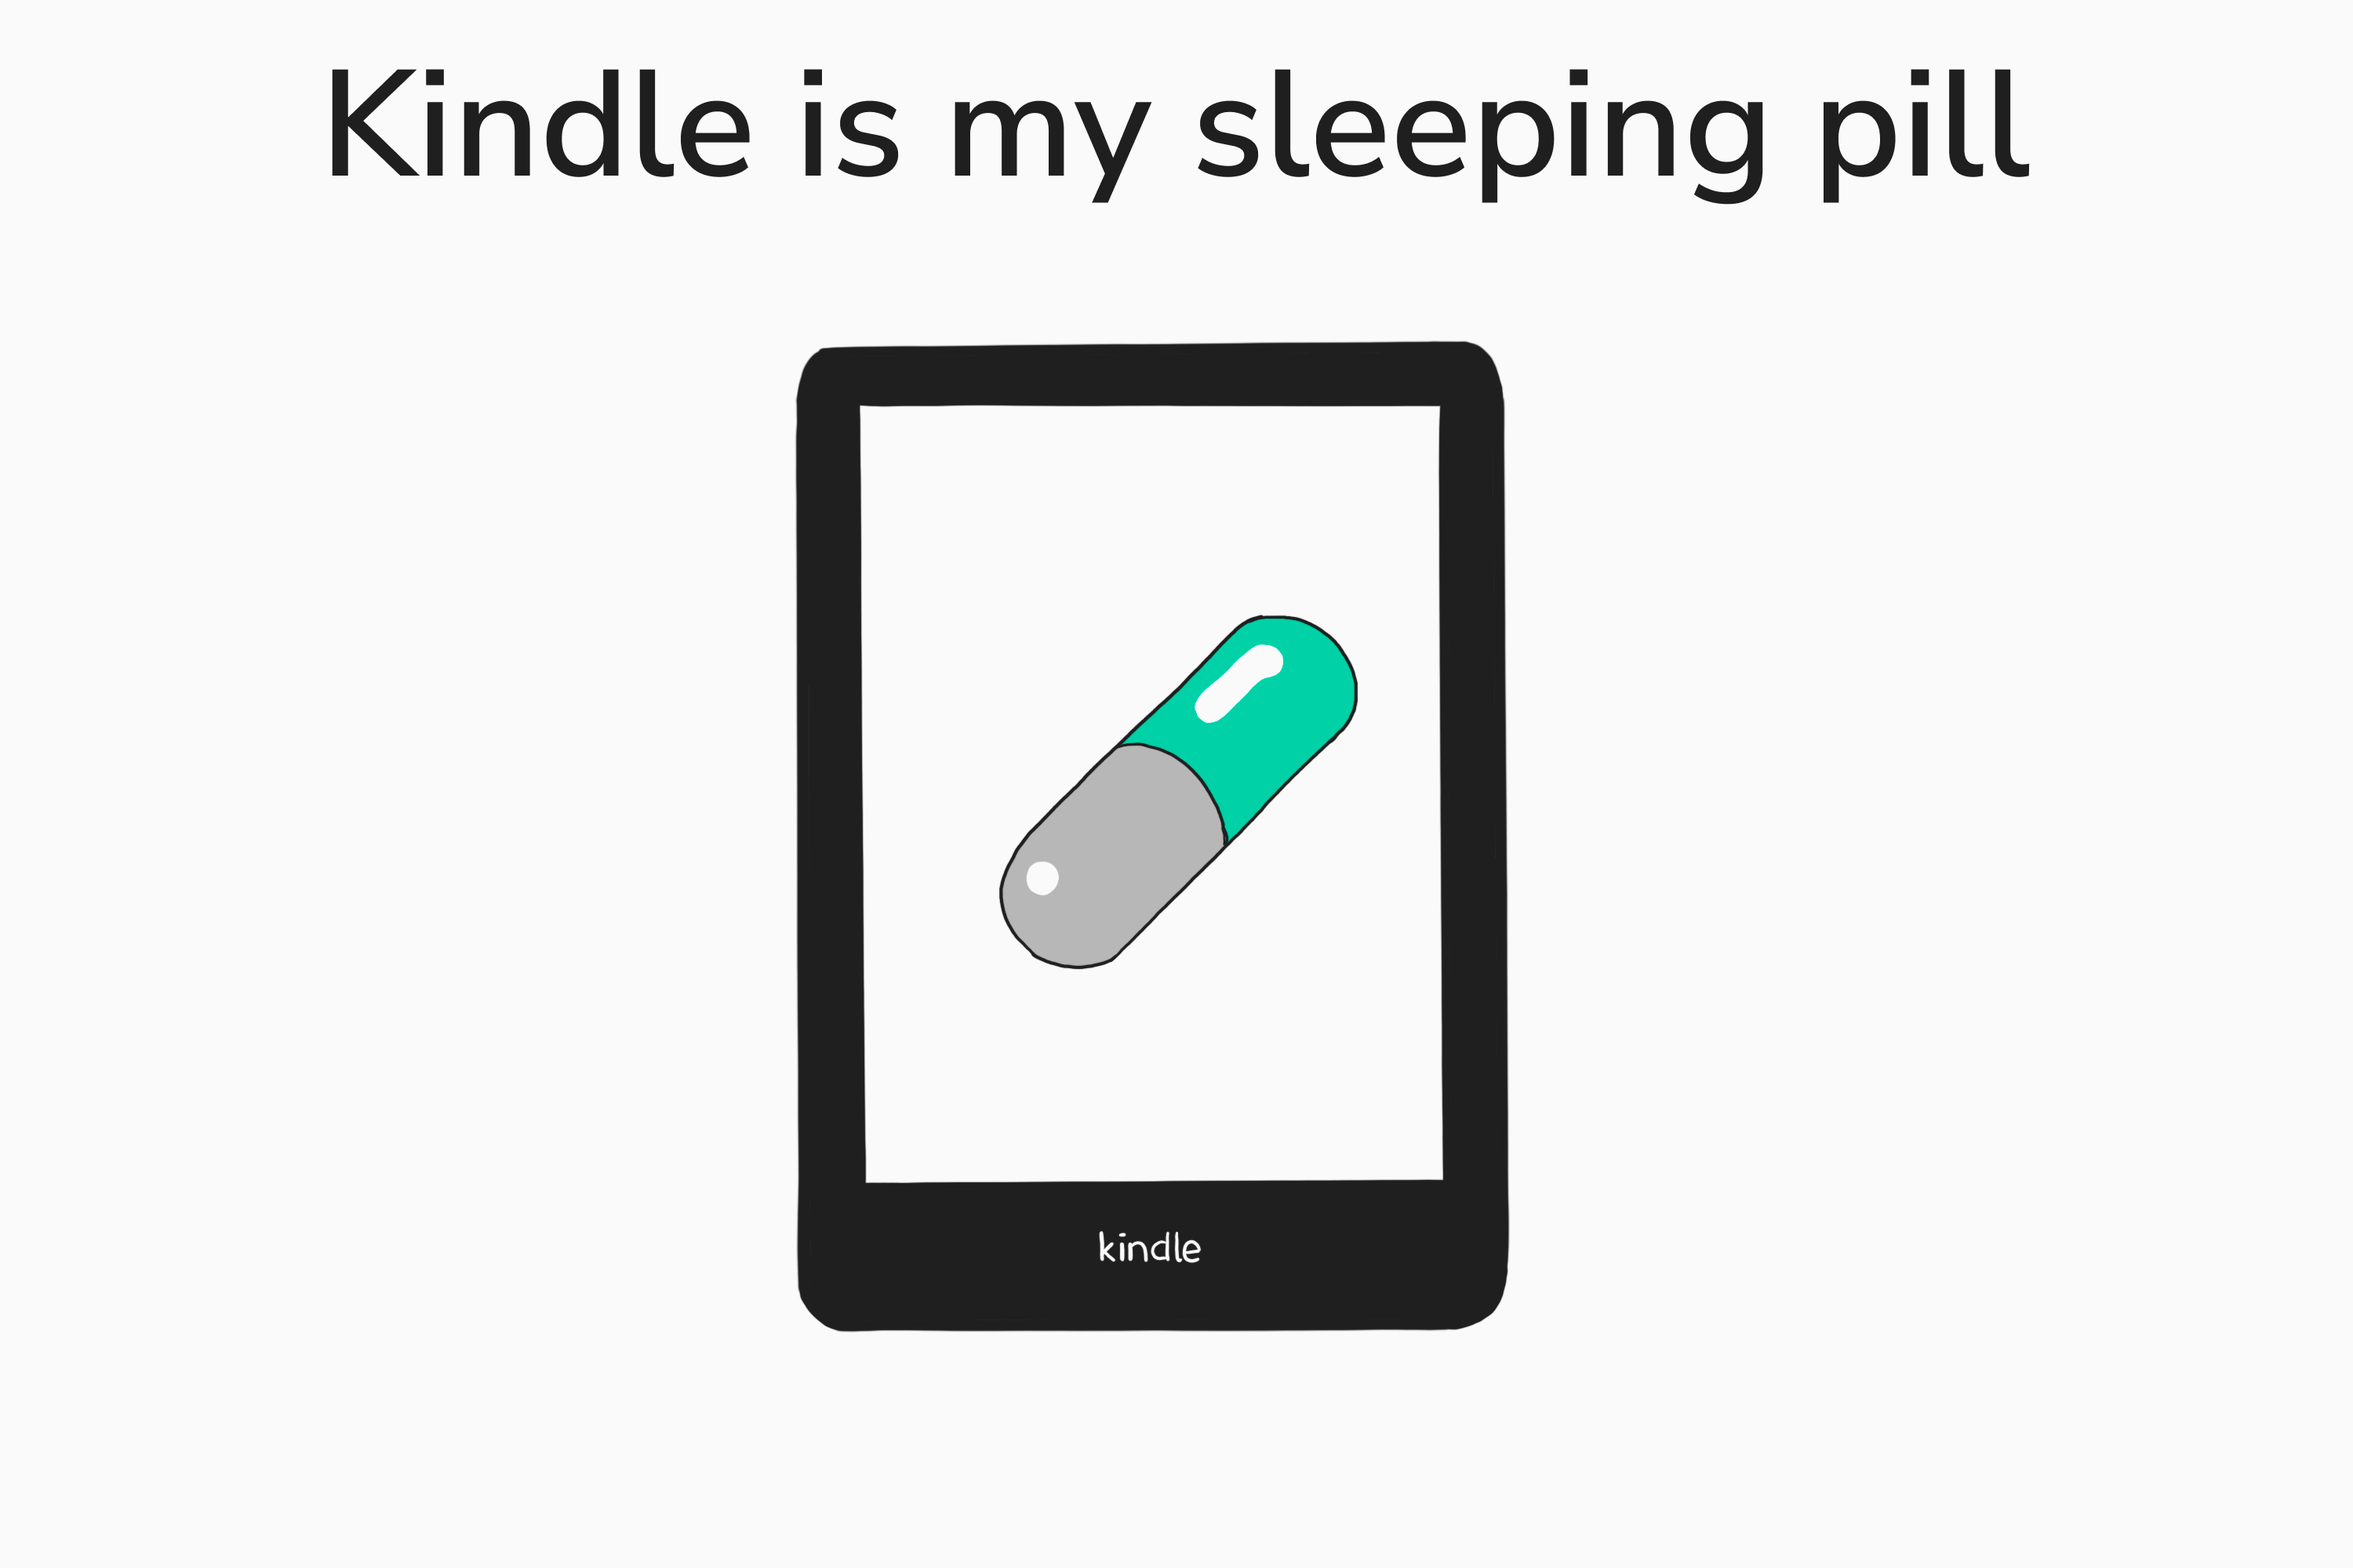
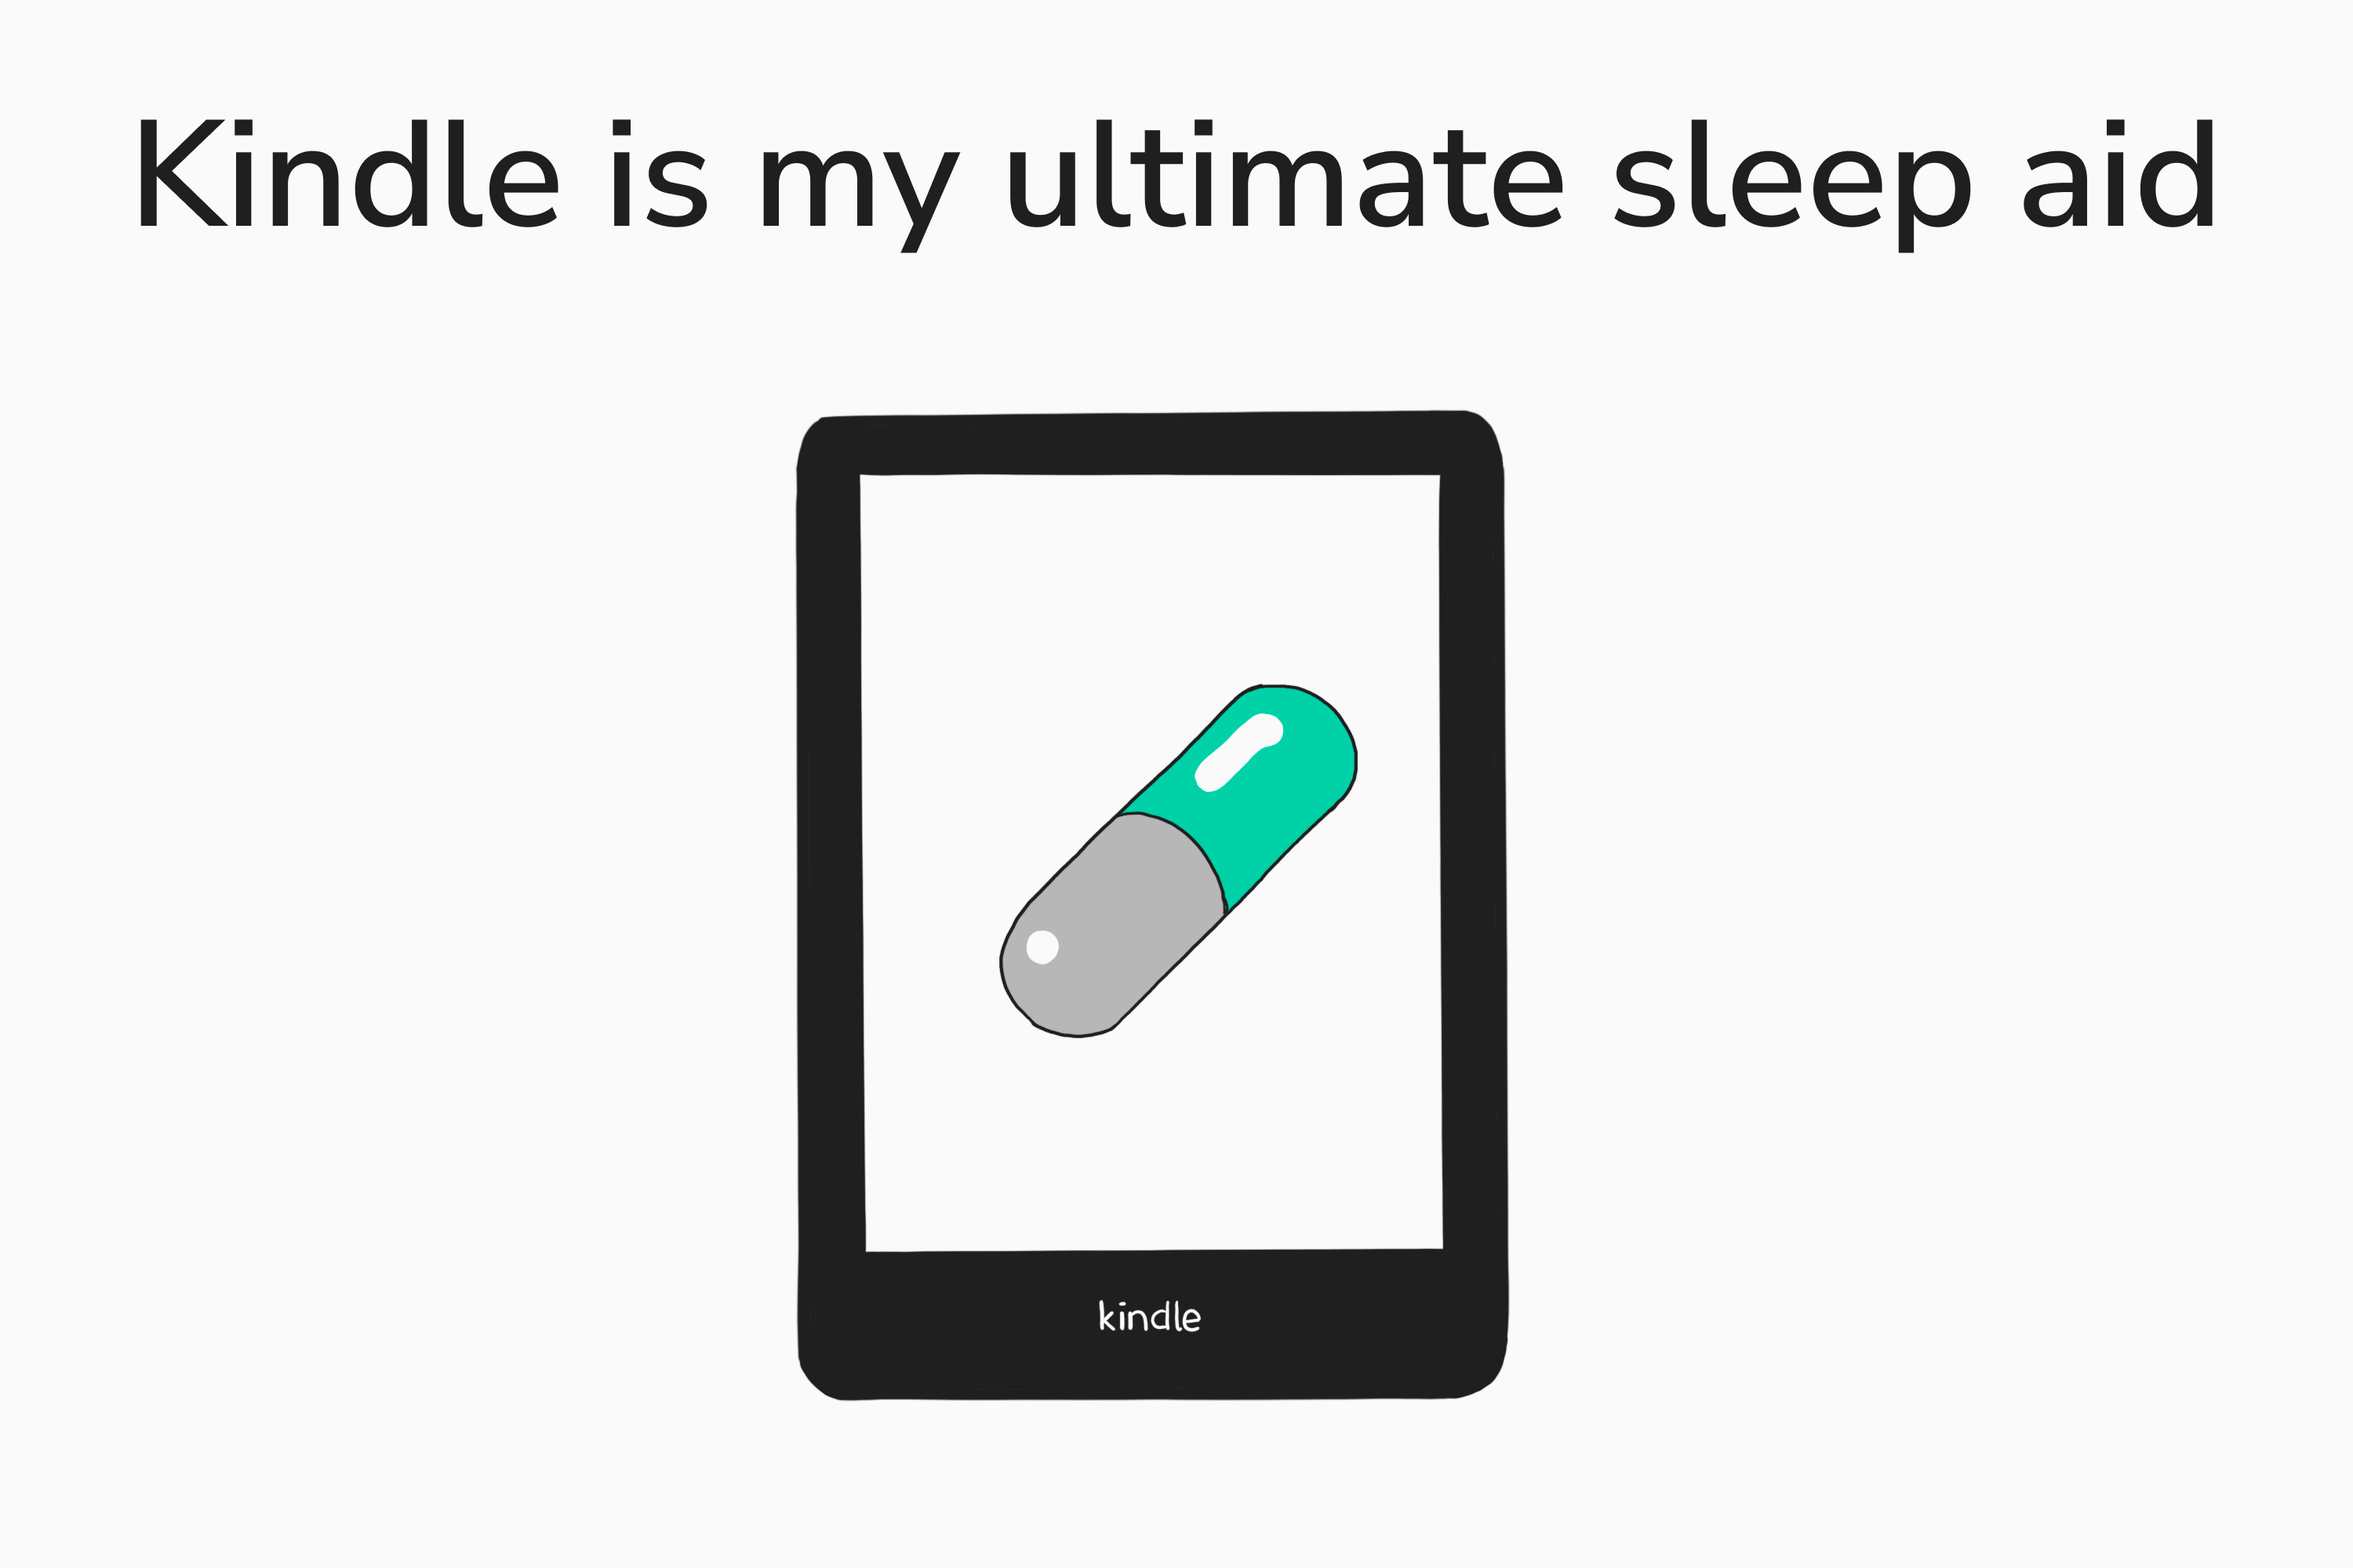
edited cover image, added keywords and description

diff --git a/_posts/2024-09-13-kindle.html b/_posts/2024-09-13-kindle.html
@@ -3,9 +3,9 @@ layout: post
 title: Kindle is my sleeping pill
 permalink: blog/kindle
 image: /images/blog/05-kindle/feature-image.png
-description: Hello world, bonjour, namaste, hola, hallo, or whatever—welcome to the first of many quirky musings on this blog!
+description: How Kindle became my ultimate sleep aid and travel essential—here’s how it changed the way I read.
 date: 2024-09-11 10:00:00 +0530
-keywords: "Rajath, Rajath Chandrahasa, blog, first blog post, travel, technology, science, literature, music, games, product manager, Hyderabad, Brokenatom, IIT Bombay, film enthusiast, software development, no-code tool, blogging, personal blog, Royal Enfield Interceptor 650, film schools, entrepreneurship, cat lover, novels, video games, web development, Buttondown, Google Analytics, Jekyll, MacDown, Obsidian, GitHub Pages, HTML, CSS, Caribbean Green, Figma, Procreate, Photoshop"
+keywords: "Rajath, Rajath Chandrahasa, blog, first blog post, travel, technology, science, literature, music, games, product manager, Hyderabad, Brokenatom, IIT Bombay, Kindle, e-reader, Paperwhite, sleep aid, travel reading, pandemic reading, book lovers, reading habits, Kindle vs paperback, digital books, Kindle Paperwhite, reading routine, college reading, Kindle experience"
 ---
 
 <p>Have you ever bought something thinking it'll solve all your problems, only to find out it's, well, not quite what you expected? That was me with the Kindle. I picked up my first one back in 2013 when I started college, convinced it would be perfect for reading lecture slides. <strong>Spoiler alert: It wasn’t</strong>. I quickly realized that scrolling through PDFs on a Kindle was a recipe for frustration, not academic excellence. But once I started using it for what it was actually built for—reading books—it became one of the best purchases I ever made. And it has stuck with me ever since.</p>

diff --git a/_site/index.html b/_site/index.html
@@ -78,7 +78,7 @@
               <div class="blog-list">
                 <img src="/images/blog/05-kindle/feature-image.png" alt="Feature Image of the Blogpost" class="blog-roll-image">
                 <h3>Kindle is my sleeping pill</h3>
-                <div class="caption">Hello world, bonjour, namaste, hola, hallo, or whatever—welcome to the first of many quirky musings on this blog!</div>
+                <div class="caption">How Kindle became my ultimate sleep aid and travel essential—here’s how it changed the way I read.</div>
                 <p class="caption">11 Sep 2024</p>
                 <a class="secondary-button" id="secondary-text" href="/blog/kindle">Continue Reading</a>
               </div>
